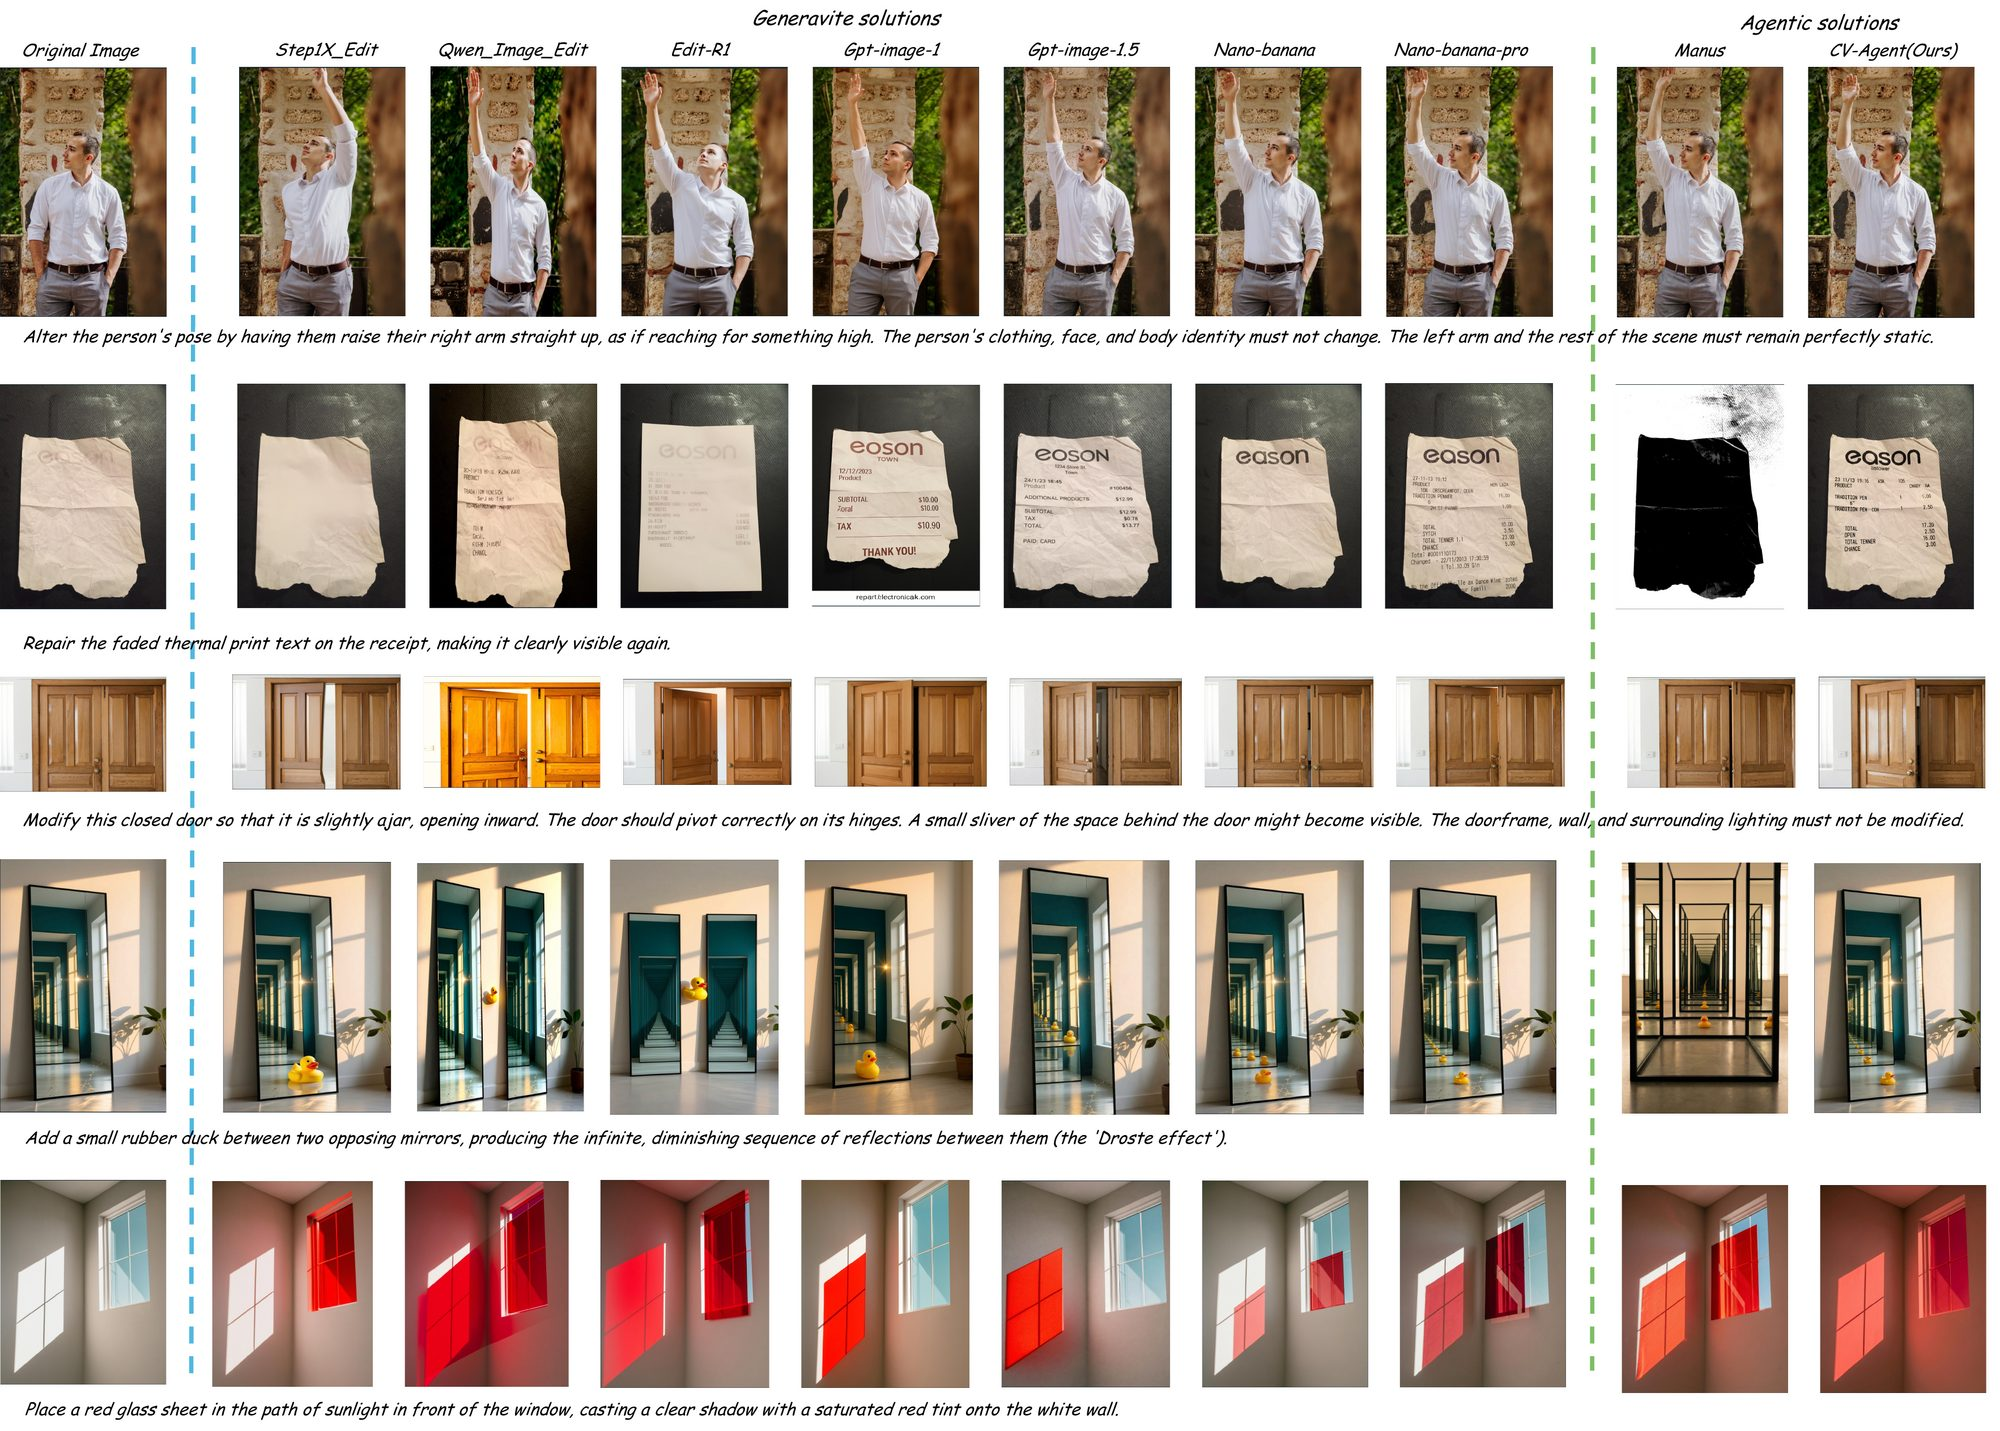
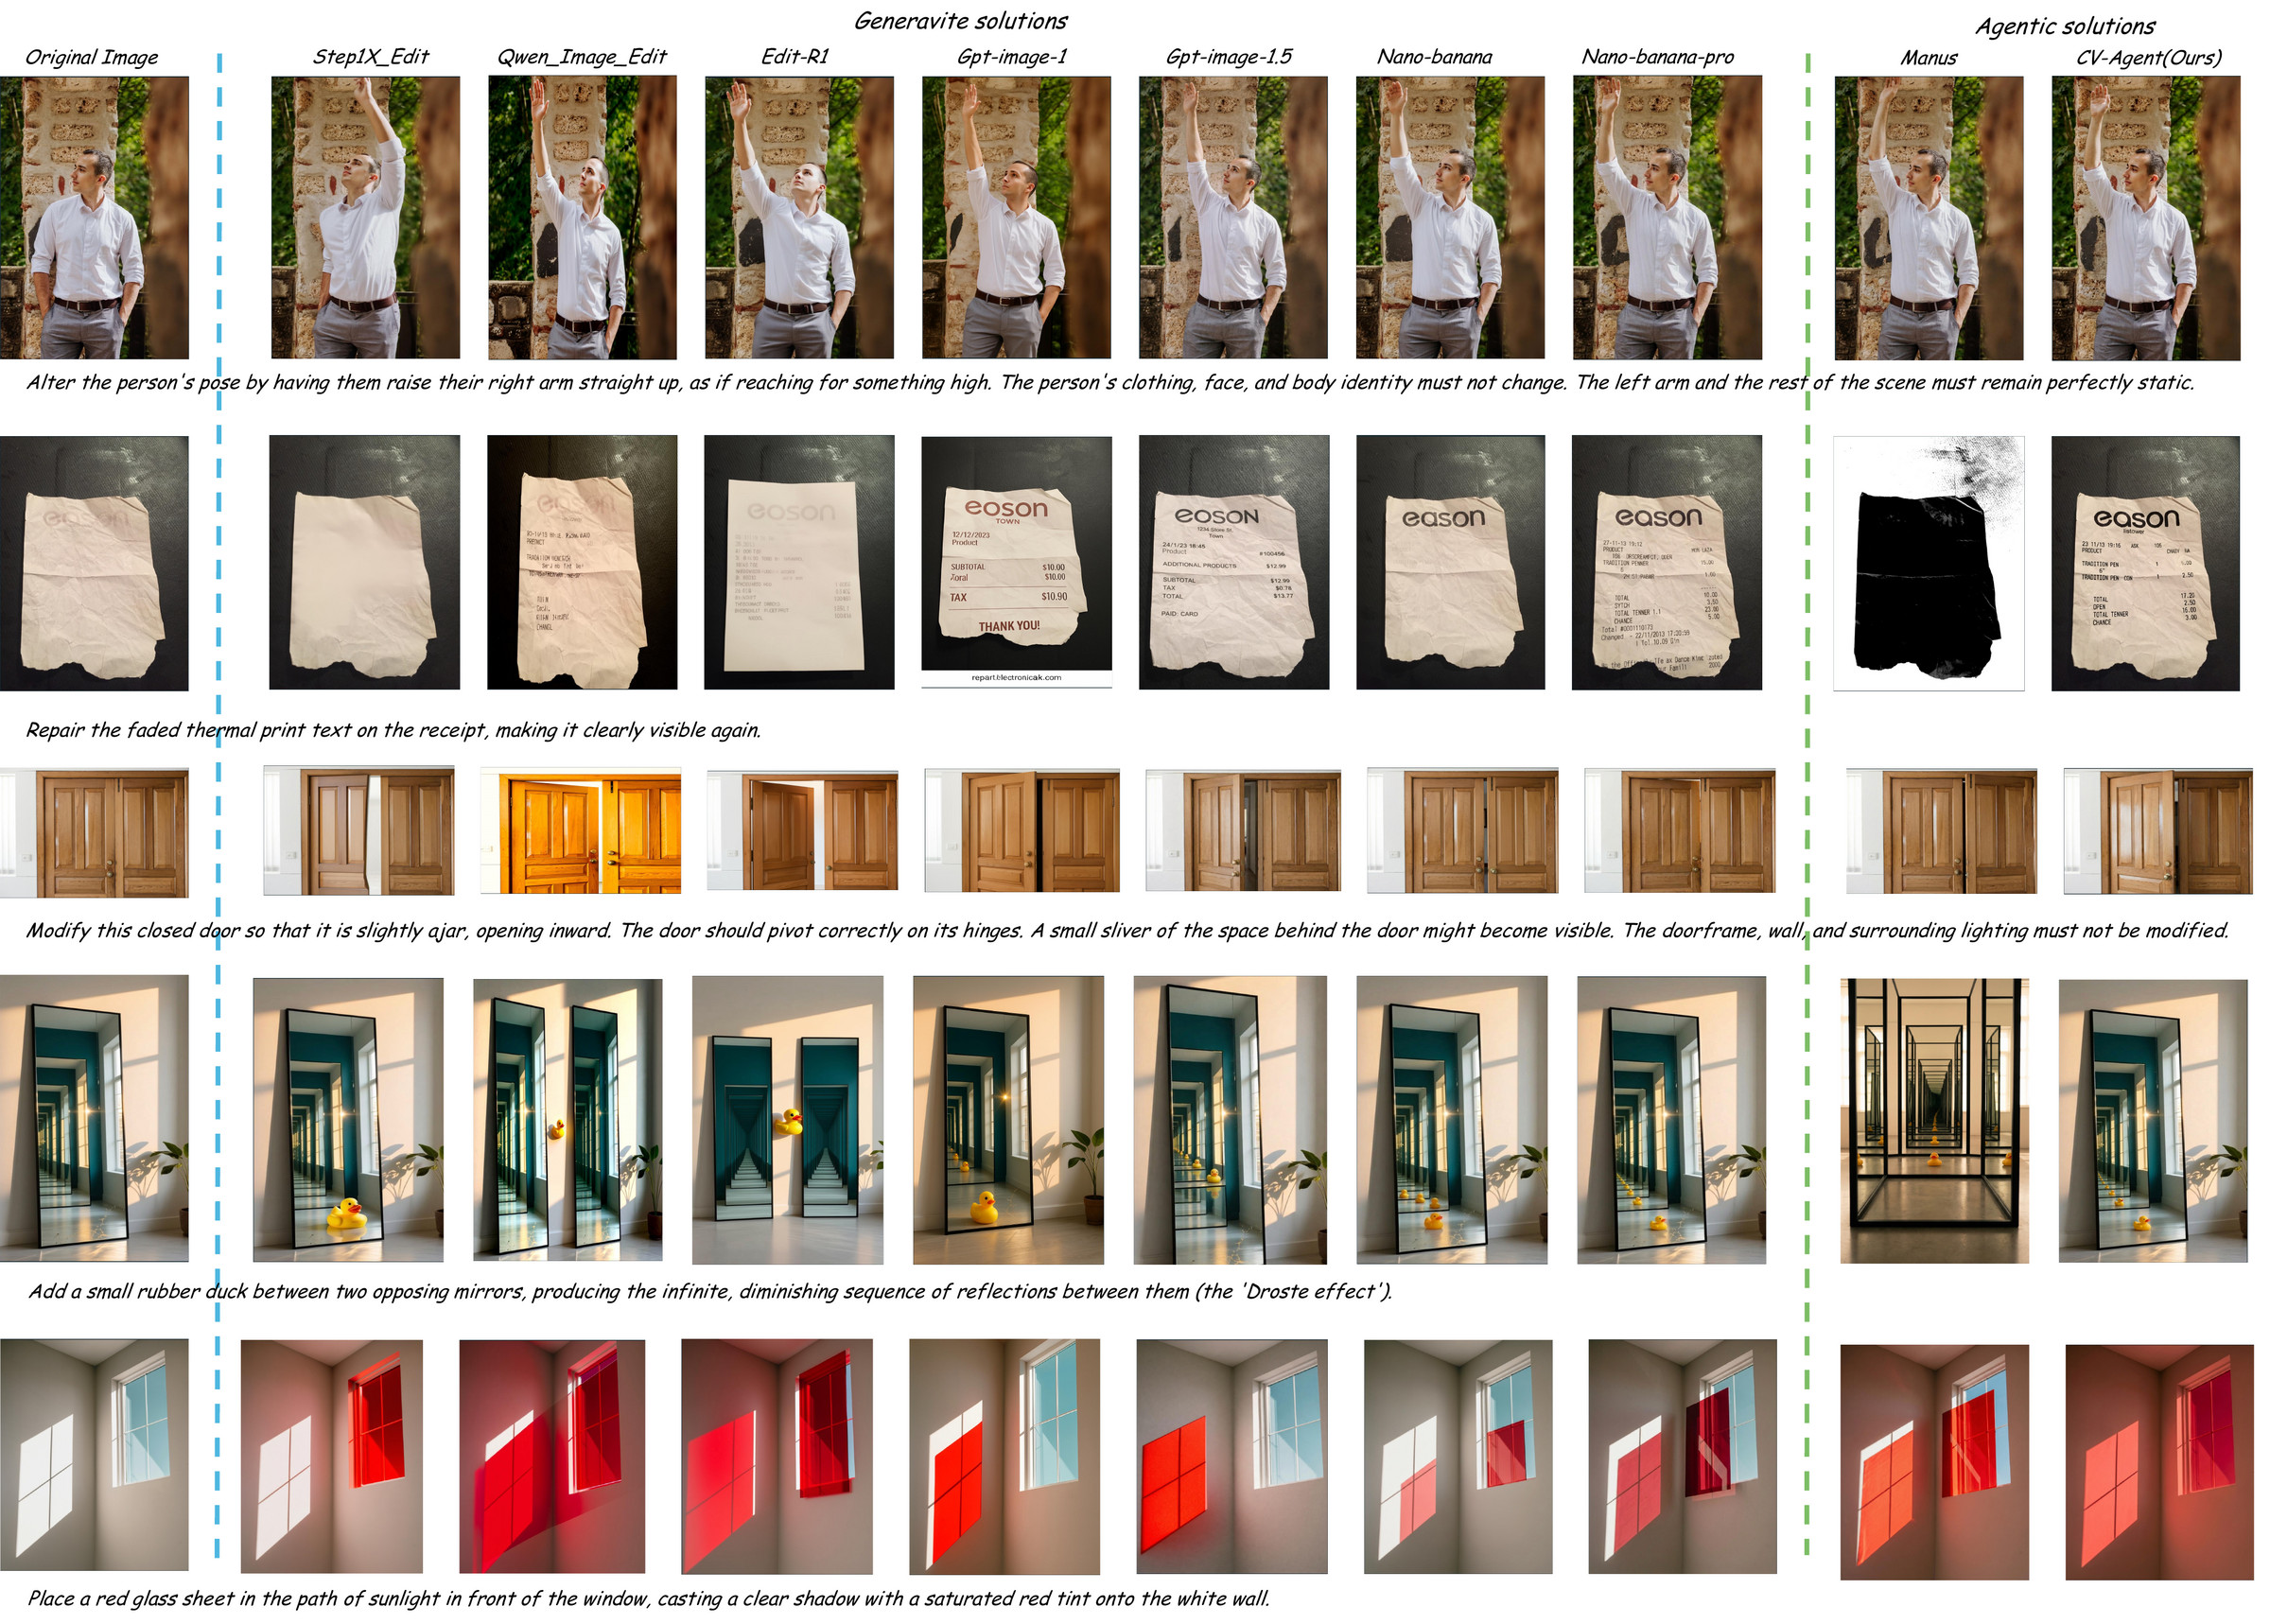
replace Visual Comparisons slider with two large figures
- show visual_main_v1 and visual_low_v1 as full-width figures
- re-render at 220 DPI / quality 90 for crisper display
- drop unused img-comparison-slider CDN includes

diff --git a/index.html b/index.html
@@ -15,7 +15,6 @@
 <link rel="preconnect" href="https://fonts.gstatic.com" crossorigin />
 <link href="https://fonts.googleapis.com/css2?family=Inter:wght@400;500;600;700&family=JetBrains+Mono:wght@400;500&display=swap" rel="stylesheet" />
 
-<link rel="stylesheet" href="https://cdn.jsdelivr.net/npm/img-comparison-slider@8/dist/styles.css" />
 <link rel="stylesheet" href="static/css/style.css" />
 </head>
 <body>
@@ -160,32 +159,18 @@
   <div class="container">
     <h2>Visual Comparisons</h2>
     <p>
-      Drag the divider to compare a <strong>baseline editor</strong> against <strong>CV-Agent</strong> on representative tasks.
-      Sliders below use placeholder image pairs cropped from the visual showcase — drop your own paired outputs into
-      <code>static/images/compare/</code> and update <code>index.html</code> accordingly.
+      Qualitative comparisons across CV-Arena tasks, contrasting outputs from leading proprietary, open-source, and
+      agentic editors on the same instruction–image pairs.
     </p>
 
-    <div class="compare-grid">
-      <div class="compare-card">
-        <img-comparison-slider>
-          <img slot="first"  src="static/images/visual_main_v1.jpg" alt="Baseline" />
-          <img slot="second" src="static/images/visual_low_v1.jpg"  alt="CV-Agent" />
-        </img-comparison-slider>
-        <div class="compare-meta">
-          <span class="instr">"Remove the price tag while preserving the texture."</span>
-          <span class="labels">← baseline · CV-Agent →</span>
-        </div>
-      </div>
-      <div class="compare-card">
-        <img-comparison-slider>
-          <img slot="first"  src="static/images/visual_low_v1.jpg" alt="Baseline" />
-          <img slot="second" src="static/images/visual_main_v1.jpg" alt="CV-Agent" />
-        </img-comparison-slider>
-        <div class="compare-meta">
-          <span class="instr">"Restore worn typography on the storefront sign."</span>
-          <span class="labels">← baseline · CV-Agent →</span>
-        </div>
-      </div>
+    <div class="figure">
+      <img src="static/images/visual_main_v1.jpg" alt="Main visual comparison across 21 systems" />
+      <div class="caption">Representative outputs across 21 systems on CV-Arena, spanning restoration, semantic manipulation, and physical interaction tasks.</div>
+    </div>
+
+    <div class="figure">
+      <img src="static/images/visual_low_v1.jpg" alt="Additional visual comparisons" />
+      <div class="caption">Additional comparisons highlighting geometric / structural control and typography / UI restoration cases.</div>
     </div>
   </div>
 </section>
@@ -235,7 +220,6 @@
 </footer>
 
 <!-- Scripts -->
-<script type="module" src="https://cdn.jsdelivr.net/npm/img-comparison-slider@8/dist/index.js"></script>
 <script src="static/js/leaderboard.js"></script>
 <script>
   // Copy BibTeX